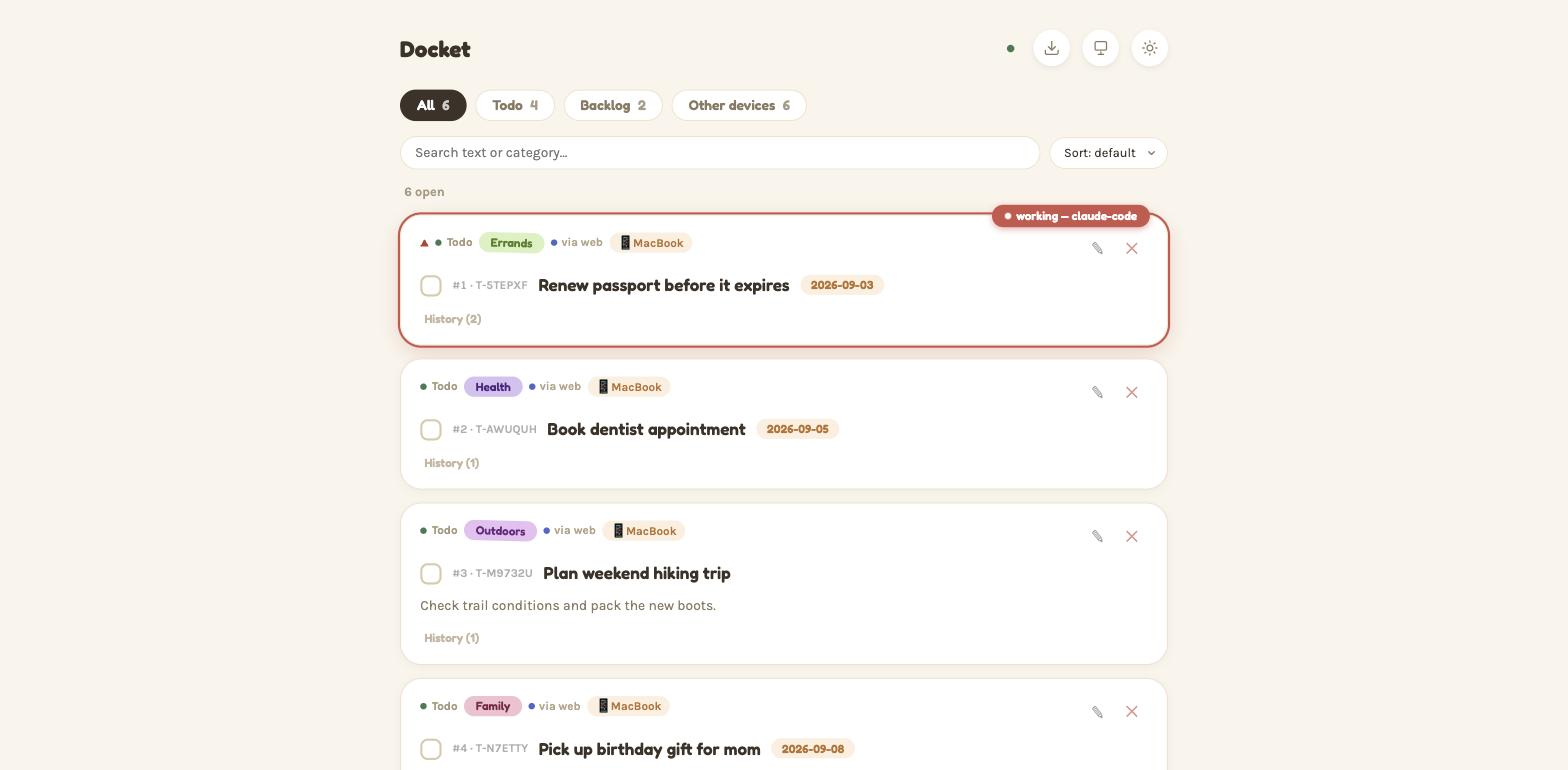
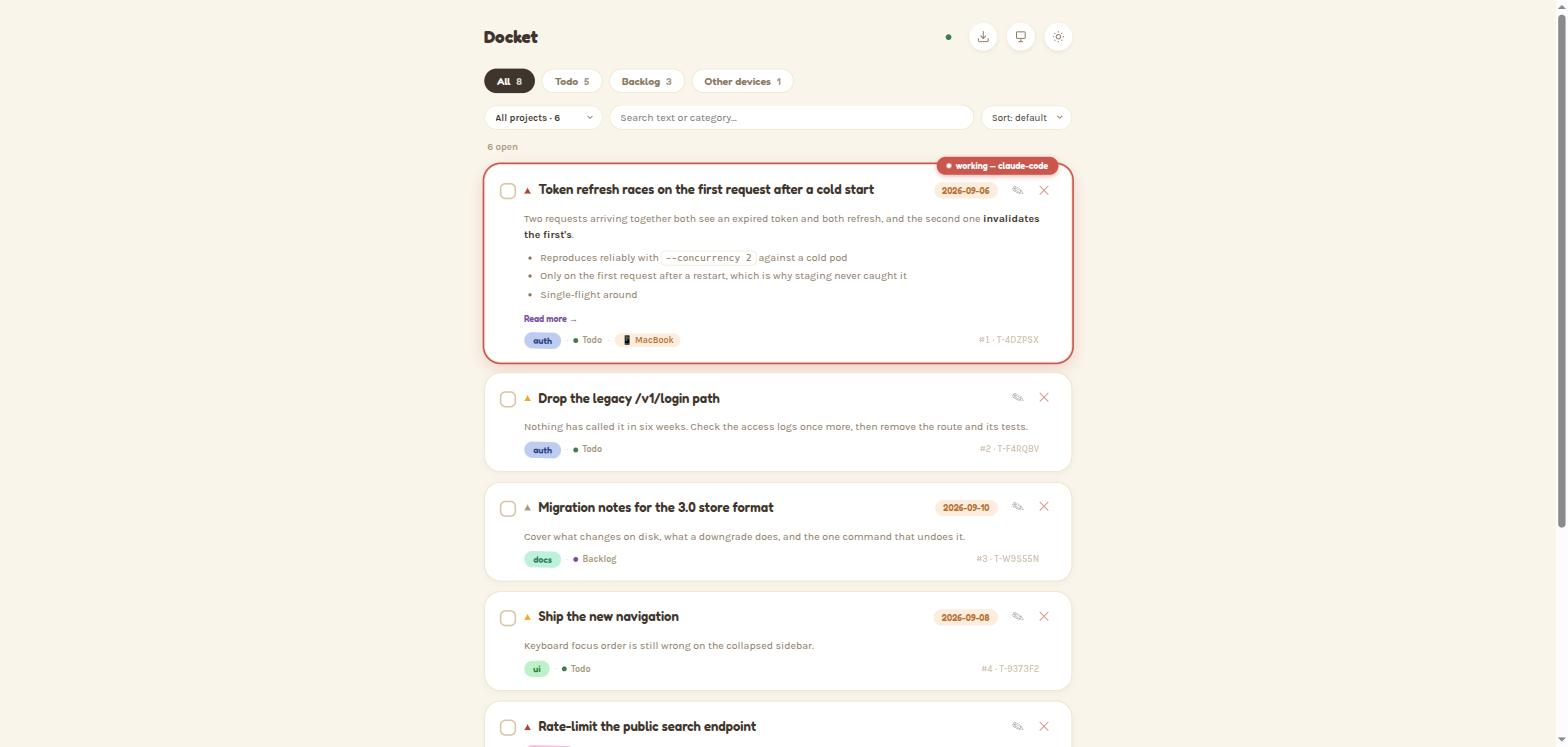
docs: regenerate the dashboard screenshots, and fix the guard they exposed
The screenshots still showed the pre-3.0 card layout — the one where the id
badge wrapped and the title sat on a second row behind it — and none of them
showed anything v3 actually added. Four now, all of the current build against a
seeded workspace: the list in both themes, one item opened with its Markdown
description rendered and its history showing who claimed it, and the same item
in the editor with Write/Preview.

docs/assets/demo-seed.mjs builds that workspace, so the shots can be regenerated
after any UI change without anyone inventing plausible-looking content again.
Two projects, an unfiled thought, a claimed item, completed items, categories,
priorities, due dates and a description long enough to clip — because every one
of those is something the card layout has to handle, and a picture of six
identical one-line items proves none of it.

Running it is what found the real bug in this commit. The script deleted its
scratch data directory and restarted while the previous run's dashboard was
still listening; that process kept its old at-rest key, wrote the store into the
recreated directory, and the new key beside it could not decrypt a thing. The
generation guard from B08 should have stopped exactly that, and did not, for two
reasons:

  - it was gated on "has this process already pinned a generation?", and nothing
    in an MCP session or a `docket serve` ever asks for one — so it was a no-op
[…]

diff --git a/src/backup.restore.test.ts b/src/backup.restore.test.ts
@@ -455,3 +455,95 @@ async function restoreThenCrashAfter(bundle: Buffer, stoppedAfter: number): Prom
     await rename(join(staging, name), inData(name));
   }
 }
+
+test("the generation guard covers a process that never asked for a generation", async () => {
+  /*
+   * The bug this catches was in the guard itself, and it was found by using it: the check
+   * was gated on "has this process already pinned a generation?", and nothing in an MCP
+   * session or a `docket serve` ever asks for one — so it was a no-op for exactly the
+   * long-running writers it exists to stop. Only the dashboard, which reports the generation
+   * on /api/version, happened to pin one.
+   *
+   * The child below does what those processes do: it writes, without ever mentioning a
+   * generation, and must still be stopped when the directory is replaced underneath it.
+   */
+  const scratch = await mkdtemp(join(tmpdir(), "docket-generation-unpinned-"));
+  try {
+    const ready = join(scratch, "pinned");
+    const go = join(scratch, "go");
+    const child = spawnInDataDir(scratch, UNPINNED_WRITER, [ready, go]);
+    await waitFor(ready);
+
+    const bumper = await runInDataDir(scratch, BUMP_GENERATION, []);
+    assert.equal(bumper.code, 0, `could not mint a new generation: ${bumper.err}`);
+
+    await writeFile(go, "now");
+    const result = await child;
+    assert.equal(result.code, 0, `the writer crashed instead of reporting: ${result.err}`);
+    const reported = JSON.parse(result.out) as { refused: boolean; error: string };
+    assert.equal(reported.refused, true, "a writer that never asked for a generation was allowed to commit into the replaced directory");
+    assert.match(reported.error, /GenerationChangedError/);
+  } finally {
+    await rm(scratch, { recursive: true, force: true });
+  }
+});
+
+test("a data directory wiped underneath a running process stops it, rather than mixing keys", async () => {
+  /*
+   * How this one was found: a script deleted its scratch data directory and restarted, while
+   * the previous run's dashboard was still listening. That process kept its old at-rest key,
+   * wrote the store into the recreated directory, and the new key beside it could not decrypt
+   * it — a data directory that is unreadable from the next start onwards, produced by two
+   * processes that were each behaving correctly on their own.
+   *
+   * An absent generation is therefore a mismatch once this process has pinned one. The
+   * upgrade case is covered by the pin itself, which mints the file.
+   */
+  const scratch = await mkdtemp(join(tmpdir(), "docket-generation-wiped-"));
+  try {
+    const ready = join(scratch, "pinned");
+    const go = join(scratch, "go");
+    const child = spawnInDataDir(scratch, UNPINNED_WRITER, [ready, go]);
+    await waitFor(ready);
+
+    // Everything the process is holding a key for, gone.
+    for (const name of ["generation", "todos.json.enc", "key"]) await rm(join(scratch, name), { force: true });
+
+    await writeFile(go, "now");
+    const reported = JSON.parse((await child).out) as { refused: boolean; error: string };
+    assert.equal(reported.refused, true, "the process wrote its old ciphertext into a directory whose key it no longer has");
+    assert.match(reported.error, /GenerationChangedError/);
+  } finally {
+    await rm(scratch, { recursive: true, force: true });
+  }
+});
+
+/** A long-running writer that never mentions a generation — an MCP session, or `docket serve`. */
+const UNPINNED_WRITER = `
+import { writeFileSync } from "node:fs";
+import { stat } from "node:fs/promises";
+import { withStore } from ${JSON.stringify(STORAGE_MODULE)};
+import { createTodo } from ${JSON.stringify(MUTATIONS_MODULE)};
+
+const [readyPath, goPath] = process.argv.slice(2);
+await withStore((store) => {
+  createTodo(store, { title: "before", agent: "long-running", session: "s" }, "device-a", "A");
+});
+writeFileSync(readyPath, "pinned");
+
+for (;;) {
+  try { await stat(goPath); break; } catch { await new Promise((r) => setTimeout(r, 20)); }
+}
+
+let refused = false;
+let error = "";
+try {
+  await withStore((store) => {
+    createTodo(store, { title: "after the directory moved", agent: "long-running", session: "s" }, "device-a", "A");
+  });
+} catch (err) {
+  refused = true;
+  error = err.name + ": " + err.message;
+}
+process.stdout.write(JSON.stringify({ refused, error }));
+`;

diff --git a/docs/index.html b/docs/index.html
@@ -190,20 +190,24 @@
     <div class="flow-arrow">→</div>
     <div class="flow-box store"><div class="label">acme/backend</div><div class="sub">what this agent sees</div></div>
   </div>
-  <p class="section-sub" style="margin-top:-6px;">The dashboard itself, in both themes:</p>
+  <p class="section-sub" style="margin-top:-6px;">The dashboard itself — both themes, one item opened, and the same item being edited:</p>
   <div class="demo-tabs">
     <button data-pane="dark" data-active="true">Dark</button>
     <button data-pane="light" data-active="false">Light</button>
+    <button data-pane="detail" data-active="false">Detail</button>
     <button data-pane="edit" data-active="false">Editing</button>
   </div>
   <div class="demo-pane" data-pane="dark" data-active="true">
-    <div class="demo-shot"><img src="assets/demo-dark.jpg" alt="Docket web dashboard, dark theme, showing a claimed in-progress item" loading="lazy" /></div>
+    <div class="demo-shot"><img src="assets/demo-dark.jpg" alt="Docket web dashboard, dark theme: the top card is claimed by claude-code and shows a Markdown description clipped with a Read more link" loading="lazy" /></div>
   </div>
   <div class="demo-pane" data-pane="light" data-active="false">
-    <div class="demo-shot"><img src="assets/demo-light.jpg" alt="Docket web dashboard, light theme" loading="lazy" /></div>
+    <div class="demo-shot"><img src="assets/demo-light.jpg" alt="The same list in the light theme" loading="lazy" /></div>
+  </div>
+  <div class="demo-pane" data-pane="detail" data-active="false">
+    <div class="demo-shot"><img src="assets/demo-detail.jpg" alt="One item opened: its full Markdown description rendered, and its history showing who claimed it and who created it" loading="lazy" /></div>
   </div>
   <div class="demo-pane" data-pane="edit" data-active="false">
-    <div class="demo-shot"><img src="assets/demo-edit.jpg" alt="Docket inline edit form, showing title, description, category, priority and due date fields" loading="lazy" /></div>
+    <div class="demo-shot"><img src="assets/demo-edit.jpg" alt="The same item being edited, with a Markdown editor and Write/Preview tabs alongside category, priority and due date" loading="lazy" /></div>
   </div>
 </section>
 

diff --git a/src/generation.ts b/src/generation.ts
@@ -67,20 +67,31 @@ export class GenerationChangedError extends Error {
 }
 
 /**
- * Throws if the data directory is no longer the one this process pinned.
+ * Throws if the data directory is no longer the one this process has been working against.
  *
- * Called immediately before a commit, never at the start of an operation: the whole point
- * is to catch a replacement that happened while the operation was in flight. A process that
- * has not pinned a generation yet cannot have cached anything stale, so it has nothing to
- * check.
+ * Called immediately before a commit, never at the start of an operation: the whole point is
+ * to catch a replacement that happened while the operation was in flight.
+ *
+ * The FIRST call in a process pins rather than checks. That is not a shortcut — it is the
+ * only way the guard covers the processes that matter. An MCP session or a `docket serve`
+ * may never touch the version endpoint or anything else that would ask for a generation, so
+ * gating the check on "has this process already pinned one?" made it a no-op for exactly the
+ * long-running writers it exists to stop. Pinning on the first write establishes the
+ * baseline at the moment the process first commits, which is also the moment it first has
+ * cached state worth protecting.
+ *
+ * An ABSENT generation after this process has pinned one is a mismatch, not a pass. The
+ * upgrade case — a data directory written by a build that predates this file — is covered by
+ * the pin itself, which mints the file. A generation that existed and is now gone means the
+ * directory was replaced or wiped underneath a process still holding its key.
  */
 export async function assertSameGeneration(): Promise<void> {
-  if (!pinned) return;
+  if (!pinned) {
+    await getGeneration();
+    return;
+  }
   const current = await readGeneration();
-  // Absent is not a mismatch: a data directory predating this file, or one whose generation
-  // has yet to be minted, is the state every install upgrades from. It is re-created on the
-  // next getGeneration() call.
-  if (current === null || current === pinned) return;
+  if (current === pinned) return;
   throw new GenerationChangedError(pinned, current);
 }
 

diff --git a/README.md b/README.md
@@ -44,9 +44,14 @@ workspace — which matters precisely because sync exists. Full resolution
 order and the `.docket.json` override: **[`docs/workspaces.md`](docs/workspaces.md)**.
 
 <p align="center">
-  <img src="docs/assets/demo-dark.jpg" alt="Docket web dashboard, dark theme, showing a claimed in-progress item" width="49%" />
-  <img src="docs/assets/demo-light.jpg" alt="Docket web dashboard, light theme, same list" width="49%" />
+  <img src="docs/assets/demo-dark.jpg" alt="Docket web dashboard, dark theme: the top card is claimed by claude-code and shows a Markdown description clipped with a Read more link" width="49%" />
+  <img src="docs/assets/demo-light.jpg" alt="The same list in the light theme" width="49%" />
 </p>
+<p align="center">
+  <img src="docs/assets/demo-detail.jpg" alt="One item opened: its full Markdown description rendered, and its history showing who claimed it and who created it" width="49%" />
+  <img src="docs/assets/demo-edit.jpg" alt="The same item being edited, with a Markdown editor and Write/Preview tabs alongside category, priority and due date" width="49%" />
+</p>
+<p align="center"><sub>Regenerate these with <code>node docs/assets/demo-seed.mjs</code> — it builds the workspace they show, so they stay a picture of the real dashboard rather than a staged one.</sub></p>
 
 ## Quick start
 
